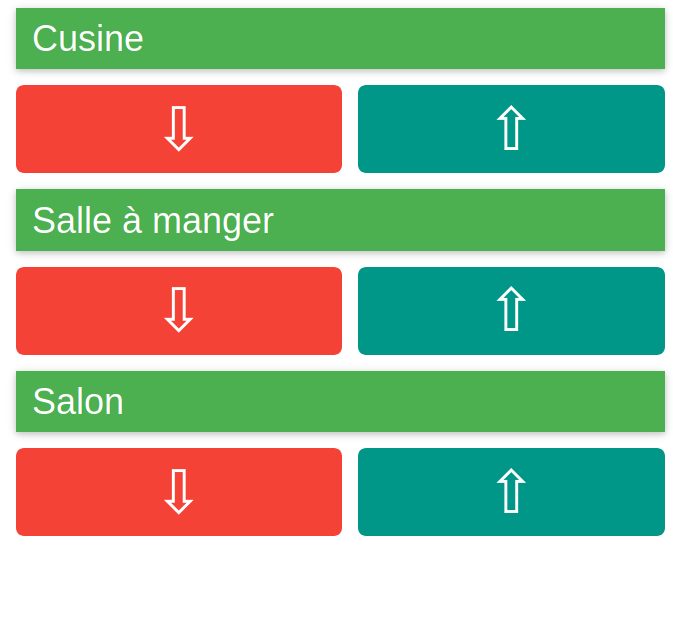
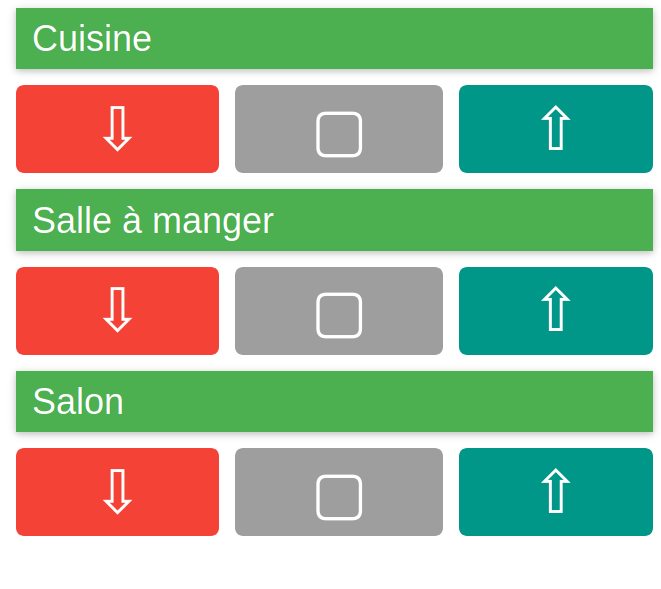
misc changes

diff --git a/src/rs_webserver.cpp b/src/rs_webserver.cpp
@@ -276,7 +276,7 @@ void handleCommand() {
 </tr>\
 <tr>\
 <td><a href=\"command?roller=0&command=0\" class=\"w3-button w3-red w3-xlarge w3-round-large\" style=\"width:100%%\"><span style='font-size:60px;'>&#8681;</span></a></td>\
-<td><a href=\"command?roller=0&command=2\" class=\"w3-button w3-grey w3-xlarge w3-round-large\" style=\"width:100%%\"><span style='font-size:60px;'>&#9634;</span></a></td>\
+<td><a href=\"command?roller=0&command=2\" class=\"w3-button w3-grey w3-xlarge w3-round-large\" style=\"width:100%%\"><span style='font-size:60px;color:white;'>&#9634;</span></a></td>\
 <td><a href=\"command?roller=0&command=1\" class=\"w3-button w3-teal w3-xlarge w3-round-large\" style=\"width:100%%\"><span style='font-size:60px;'>&#8679;</span></a></td>\
 </tr>\
 <tr>\
@@ -286,7 +286,7 @@ void handleCommand() {
 </tr>\
 <tr>\
 <td><a href=\"command?roller=1&command=0\" class=\"w3-button w3-red w3-xlarge w3-round-large\" style=\"width:100%%\"><span style='font-size:60px;'>&#8681;</span></a></td>\
-<td><a href=\"command?roller=1&command=2\" class=\"w3-button w3-grey w3-xlarge w3-round-large\" style=\"width:100%%\"><span style='font-size:60px;'>&#9634;</span></a></td>\
+<td><a href=\"command?roller=1&command=2\" class=\"w3-button w3-grey w3-xlarge w3-round-large\" style=\"width:100%%\"><span style='font-size:60px;color:white;'>&#9634;</span></a></td>\
 <td><a href=\"command?roller=1&command=1\" class=\"w3-button w3-teal w3-xlarge w3-round-large\" style=\"width:100%%\"><span style='font-size:60px;'>&#8679;</span></a></td>\
 </tr><tr>\
 <td colspan=\"3\"><header class=\"w3-container w3-card w3-theme\">\
@@ -295,7 +295,7 @@ void handleCommand() {
 </tr>\
 <tr>\
 <td><a href=\"command?roller=2&command=0\" class=\"w3-button w3-red w3-xlarge w3-round-large\" style=\"width:100%%\"><span style='font-size:60px;'>&#8681;</span></a></td>\
-<td><a href=\"command?roller=2&command=2\" class=\"w3-button w3-grey w3-xlarge w3-round-large\" style=\"width:100%%\"><span style='font-size:60px;'>&#9634;</span></a></td>\
+<td><a href=\"command?roller=2&command=2\" class=\"w3-button w3-grey w3-xlarge w3-round-large\" style=\"width:100%%\"><span style='font-size:60px;color:white;'>&#9634;</span></a></td>\
 <td><a href=\"command?roller=2&command=1\" class=\"w3-button w3-teal w3-xlarge w3-round-large\" style=\"width:100%%\"><span style='font-size:60px;'>&#8679;</span></a></td>\
 </tr>\
 </table>\

diff --git a/src/rs_wifi.cpp b/src/rs_wifi.cpp
@@ -40,6 +40,7 @@ void start_softap(void) {
   
   Serial.println("WIFI - start_softap - Starting rescue mode");
   WiFi.mode(WIFI_AP);
+  delay(2000);
   WiFi.softAPConfig(apIP, apIP, IPAddress(255, 255, 255, 0));
   WiFi.softAP("VoletRoulants");
   dnsServer.start(53, "*", apIP);  //Cause a reboot in softAP mode

diff --git a/src/main.cpp b/src/main.cpp
@@ -35,7 +35,6 @@ void setup() {
 
   rescue_mode = digitalRead(RESCUE_PIN);
   
-  Serial.println(rescue_mode);
   if (rescue_mode) {
     start_softap();    
   }
